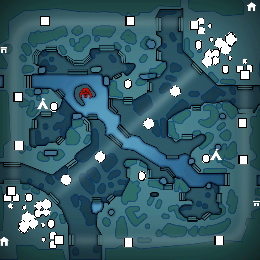
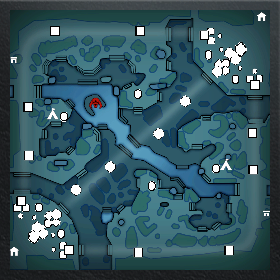
Updated images to actually cover

diff --git a/README.md b/README.md
@@ -1,15 +1,9 @@
 # Minimap Covers for Streamers
 
-These PNG images are copies of the Dota 7.00 minimap. It's just the minimap,
-no custom skin or anything on top of it, so positioning it is key. From the
-bottom and side the cover should be:
-
-* 1080p normal: 8 pixels
-* 1080p large: 10 pixels
-* 1440p large: 13 pixels
-
-from the edge. This should exactly match the minimap position in game. How
-you position this will be different depending on your streaming software.
+These PNG images are copies of the Dota 7.00 minimap. It's the full minimap,
+including the border around it, so it will cover up some HUD skins. These
+should be placed directly in the corner (Bottom left or bottom right) of the
+stream scene, to cover the minimap.
 
 If anyone has other sizes they want added or using the other mini-map style,
 then please send me a bug report or pull request.
